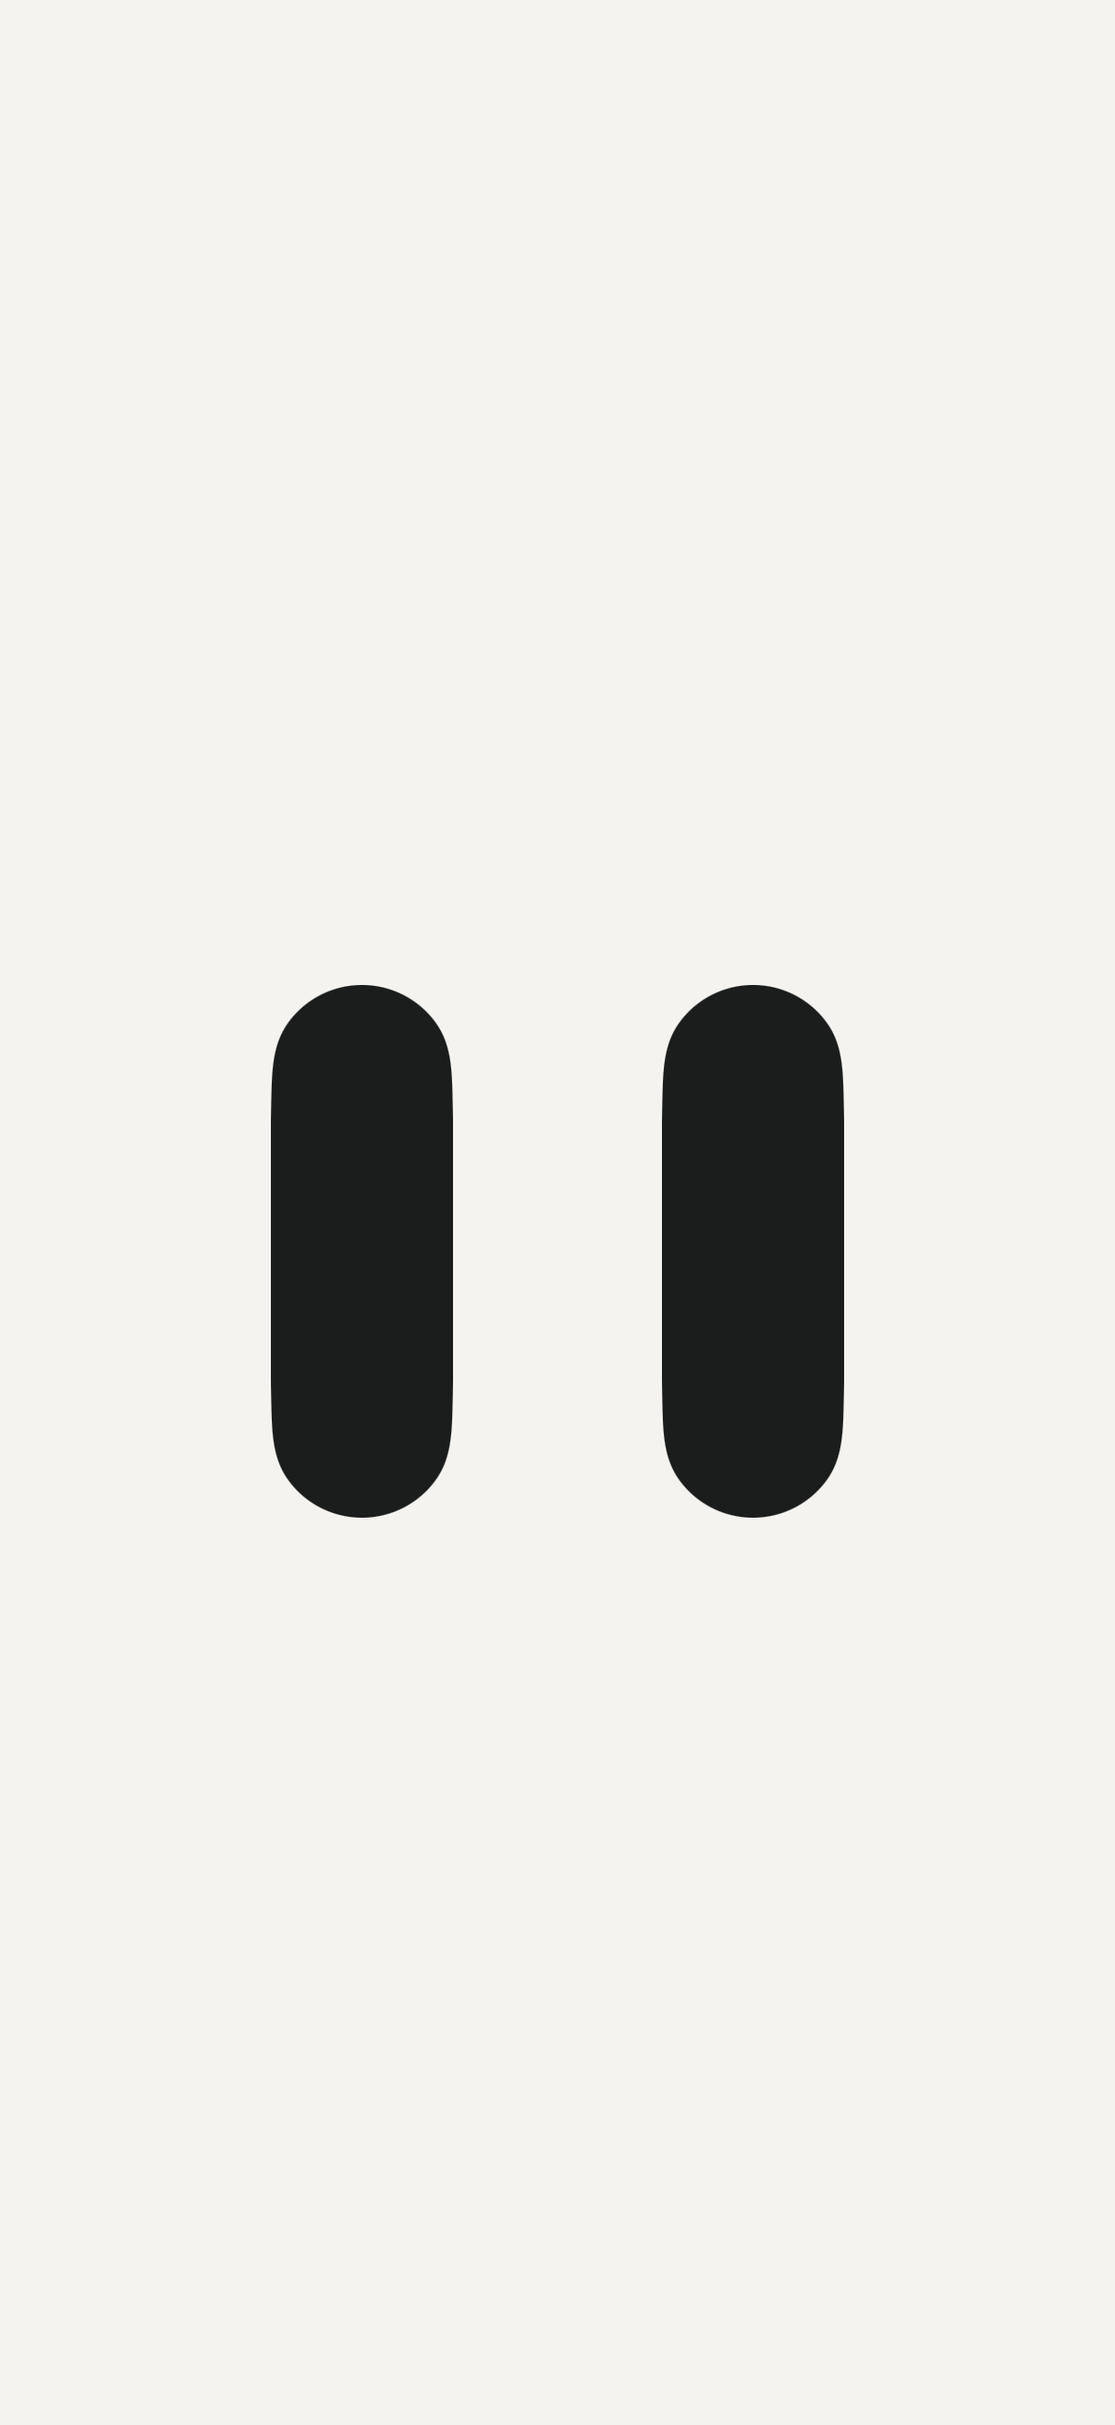
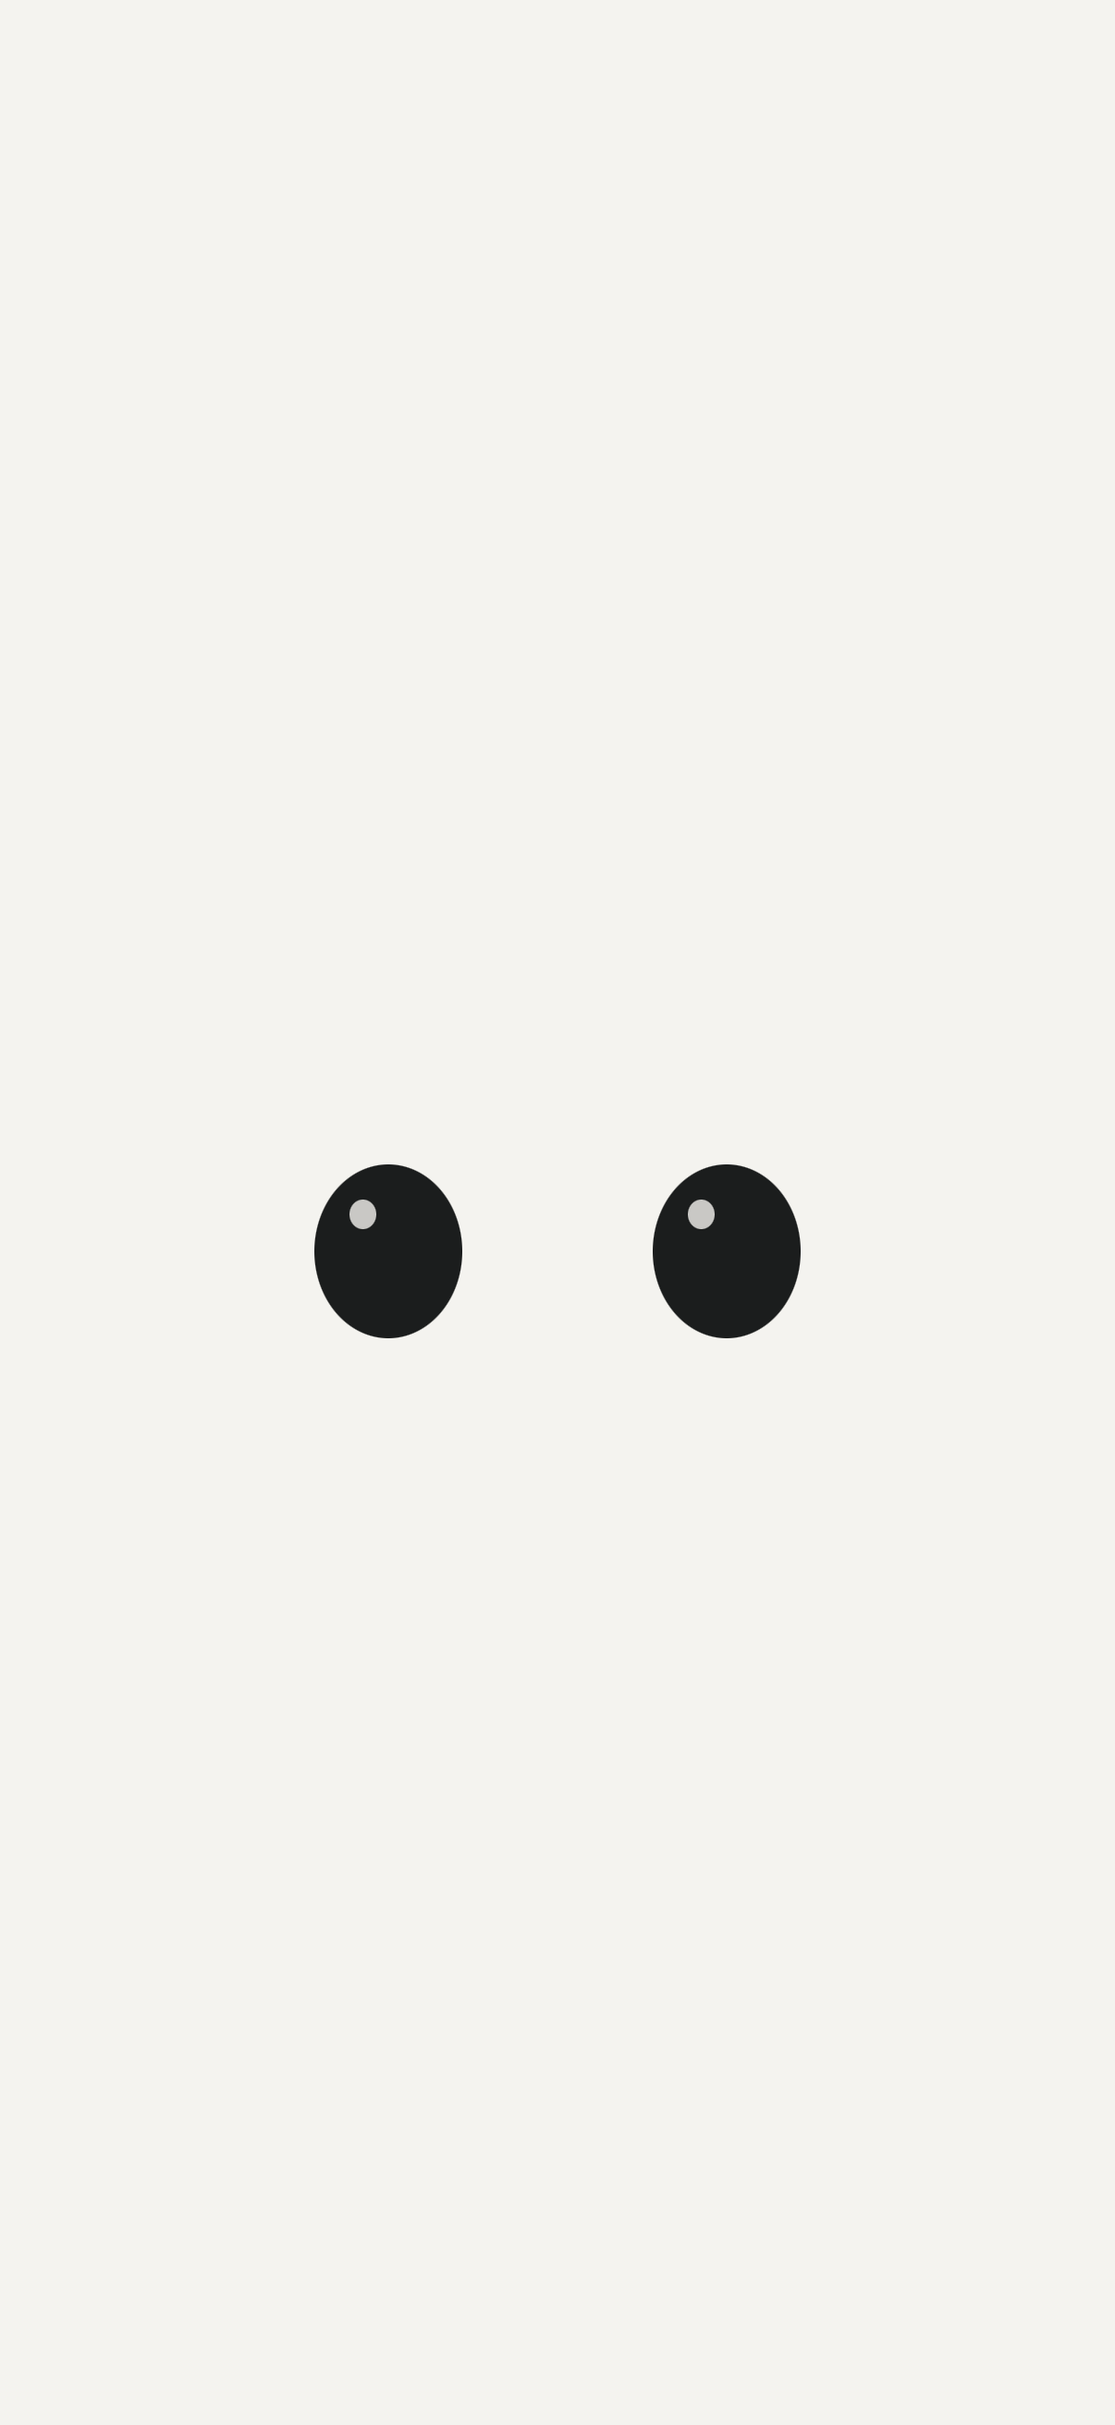
fix: soften Mate eyes and smooth face tracking motion

Changed region(s): [[0.5829, 0.4016, 0.767, 0.6487], [0.2454, 0.4016, 0.4295, 0.6487]]

diff --git a/Tests/MateCoreTests/CompanionGazeTests.swift b/Tests/MateCoreTests/CompanionGazeTests.swift
@@ -1,0 +1,86 @@
+import XCTest
+@testable import MateCore
+
+final class CompanionGazeTests: XCTestCase {
+    func testSmallDetectionJitterDoesNotKeepMovingSettledEyes() {
+        var gaze = CompanionGaze()
+        for frame in 0...120 {
+            gaze.update(x: 0.55, y: -0.25, now: Double(frame) / 12)
+        }
+        let settled = gaze.position
+        for frame in 121...168 {
+            let jitter = frame.isMultiple(of: 2) ? 0.008 : -0.008
+            let result = gaze.update(x: 0.55 + jitter, y: -0.25 - jitter, now: Double(frame) / 12)
+            XCTAssertEqual(result.x, settled.x, accuracy: 0.000_001)
+            XCTAssertEqual(result.y, settled.y, accuracy: 0.000_001)
+        }
+    }
+
+    func testLargeTargetChangeHasBoundedSpeedAndDoesNotOvershoot() {
+        var gaze = CompanionGaze()
+        gaze.update(x: 1, y: -1, now: 0)
+        var previous = gaze.position
+        for frame in 1...36 {
+            let result = gaze.update(x: 1, y: -1, now: Double(frame) / 12)
+            XCTAssertLessThanOrEqual(hypot(result.x - previous.x, result.y - previous.y), 1.5 / 12 + 0.000_001)
+            XCTAssertGreaterThanOrEqual(result.x, previous.x)
+            XCTAssertLessThanOrEqual(result.y, previous.y)
+            XCTAssertLessThanOrEqual(result.x, 1)
+            XCTAssertGreaterThanOrEqual(result.y, -1)
+            previous = result
+        }
+        XCTAssertGreaterThan(gaze.position.x, 0.99)
+        let afterStall = gaze.update(x: -1, y: 1, now: 30)
+        XCTAssertLessThanOrEqual(hypot(afterStall.x - previous.x, afterStall.y - previous.y), 0.15 + 0.000_001)
+    }
+
+    func testBriefFaceLossHoldsGazeThenReturnsSmoothlyToCenter() {
+        var gaze = CompanionGaze()
+        for frame in 0...24 {
+            gaze.update(x: 0.8, y: 0.4, now: Double(frame) / 12)
+        }
+        let held = gaze.position
+        XCTAssertEqual(gaze.update(x: nil, y: nil, now: 2.2), held)
+        XCTAssertEqual(gaze.update(x: nil, y: nil, now: 2.5), held)
+        let returning = gaze.update(x: nil, y: nil, now: 2.65)
+        XCTAssertGreaterThan(returning.x, 0)
+        XCTAssertLessThan(returning.x, held.x)
+        XCTAssertGreaterThan(returning.y, 0)
+        XCTAssertLessThan(returning.y, held.y)
+        XCTAssertLessThanOrEqual(hypot(returning.x - held.x, returning.y - held.y), 1.5 * 0.05 + 0.000_001)
+        for frame in 1...48 {
+            gaze.update(x: nil, y: nil, now: 2.65 + Double(frame) / 12)
+        }
+        XCTAssertEqual(gaze.position.x, 0, accuracy: 0.000_01)
+        XCTAssertEqual(gaze.position.y, 0, accuracy: 0.000_01)
+    }
+
+    func testInvalidCoordinatesAndTimestampsCannotPoisonGaze() {
+        var gaze = CompanionGaze()
+        gaze.update(x: 3, y: -4, now: 0)
+        let valid = gaze.update(x: 3, y: -4, now: 0.1)
+        XCTAssertEqual(gaze.update(x: -1, y: 1, now: .nan), valid)
+        XCTAssertEqual(gaze.update(x: -1, y: 1, now: .infinity), valid)
+        XCTAssertEqual(gaze.update(x: -1, y: 1, now: 0), valid)
+        XCTAssertEqual(gaze.update(x: .nan, y: .infinity, now: 0.2), valid)
+        let result = gaze.update(x: .nan, y: nil, now: 1)
+        XCTAssertTrue(result.x.isFinite && result.y.isFinite)
+        XCTAssertLessThan(result.x, valid.x)
+        XCTAssertGreaterThan(result.y, valid.y)
+    }
+
+    func testResetImmediatelyCentersAndDiscardsOldTarget() {
+        var gaze = CompanionGaze()
+        gaze.update(x: 1, y: -1, now: 0)
+        gaze.update(x: 1, y: -1, now: 0.1)
+        XCTAssertNotEqual(gaze.position.x, 0)
+        gaze.reset()
+        XCTAssertEqual(gaze.position.x, 0)
+        XCTAssertEqual(gaze.position.y, 0)
+        XCTAssertEqual(gaze.update(x: nil, y: nil, now: 10).x, 0)
+        XCTAssertEqual(gaze.update(x: nil, y: nil, now: 11).y, 0)
+        let reacquired = gaze.update(x: -1, y: 1, now: 11.1)
+        XCTAssertLessThan(reacquired.x, 0)
+        XCTAssertGreaterThan(reacquired.y, 0)
+    }
+}

diff --git a/apps/ios/ZeroKeyMate/MateView.swift b/apps/ios/ZeroKeyMate/MateView.swift
@@ -140,25 +140,45 @@ private struct MateEyes:View {
         let _ = locale.identifier
         TimelineView(.animation(minimumInterval:1.0/30,paused:reduceMotion || resting)){timeline in
             let time=timeline.date.timeIntervalSinceReferenceDate
-            let phase=time.truncatingRemainder(dividingBy:5.7)
-            let blink=reduceMotion ? 1.0:phase<0.16 ? max(0.08,abs(phase-0.08)/0.08):1.0
+            let phase=time.truncatingRemainder(dividingBy:11.3)
+            // Two unhurried blinks with unequal spacing, without an idle gaze wander.
+            let blinkDistance=min(abs(phase-2.7),abs(phase-8.9))
+            let blink=reduceMotion ? 1.0:blinkDistance<0.15 ?
+                0.08+0.92*(1-cos(.pi*blinkDistance/0.15))/2:1.0
             GeometryReader{g in
-                let width=g.size.width*0.21
-                let height=resting ? 5.0:g.size.height*(listening ? 0.73:0.65)
-                let offset=CGFloat(focus)*g.size.width*0.14
-                let vertical=CGFloat(verticalFocus)*g.size.height*0.14
-                HStack(spacing:g.size.width*0.24){
-                    ForEach(0..<2,id:\.self){index in
-                        RoundedRectangle(cornerRadius:width/2,style:.continuous)
-                            .fill(Finish.ink)
-                            .frame(width:width,height:max(5,height*blink*(thinking && index==1 ? 0.70:1)))
-                            .offset(x:offset,y:vertical+(thinking && index==1 ? -8:0))
-                            .animation(reduceMotion ? nil:.easeOut(duration:0.12),value:focus)
-                            .animation(reduceMotion ? nil:.easeOut(duration:0.12),value:verticalFocus)
+                let width=min(g.size.width*0.17,g.size.height*0.30)
+                let height=width*(listening ? 1.24:thinking ? 1.10:1.18)
+                let offset=CGFloat(focus)*g.size.width*0.085
+                let vertical=CGFloat(verticalFocus)*g.size.height*0.075
+                HStack(spacing:g.size.width*0.22){
+                    ForEach(0..<2,id:\.self){_ in
+                        ZStack {
+                            if resting {
+                                Path { path in
+                                    path.move(to:CGPoint(x:0,y:height*0.45))
+                                    path.addQuadCurve(to:CGPoint(x:width,y:height*0.45),
+                                                     control:CGPoint(x:width/2,y:height*0.78))
+                                }.stroke(Finish.ink,style:StrokeStyle(lineWidth:5,lineCap:.round))
+                            } else {
+                                Ellipse().fill(Finish.ink)
+                                    .overlay(alignment:.topLeading) {
+                                        Ellipse().fill(Finish.paper.opacity(0.8))
+                                            .frame(width:width*0.18,height:width*0.20)
+                                            .offset(x:width*0.24,y:height*0.20)
+                                    }
+                                    .scaleEffect(x:1,y:blink)
+                            }
+                        }
+                        .frame(width:width,height:height)
+                        .offset(x:resting ? 0:offset,y:resting ? 0:vertical)
+                        .animation(reduceMotion ? nil:.easeOut(duration:0.24),value:focus)
+                        .animation(reduceMotion ? nil:.easeOut(duration:0.24),value:verticalFocus)
                     }
                 }.frame(maxWidth:.infinity,maxHeight:.infinity)
             }
-        }.animation(reduceMotion ? nil:.easeInOut(duration:0.25),value:resting)
+        }.animation(reduceMotion ? nil:.easeInOut(duration:0.3),value:resting)
+            .animation(reduceMotion ? nil:.easeInOut(duration:0.3),value:listening)
+            .animation(reduceMotion ? nil:.easeInOut(duration:0.3),value:thinking)
     }
 }
 

diff --git a/Sources/MateCore/CompanionGaze.swift b/Sources/MateCore/CompanionGaze.swift
@@ -1,0 +1,72 @@
+import Foundation
+
+/// Calms normalized face positions without retaining camera frames or identity.
+/// Supply monotonic seconds, for example ProcessInfo.processInfo.systemUptime.
+public struct CompanionGaze: Sendable {
+    public struct Position: Equatable, Sendable {
+        public let x: Double
+        public let y: Double
+    }
+
+    public private(set) var position = Position(x: 0, y: 0)
+    private var target = Position(x: 0, y: 0)
+    private var updatedAt: TimeInterval?
+    private var lastFaceAt: TimeInterval?
+    private static let timeConstant = 0.28
+    private static let deadband = 0.02
+    private static let maximumSpeed = 1.5
+    private static let lossHold = 0.6
+    // A delayed callback must not turn into a single large jump.
+    private static let maximumStepTime = 0.1
+
+    public init() {}
+
+    @discardableResult
+    public mutating func update(x: Double?, y: Double?, now: TimeInterval) -> Position {
+        guard now.isFinite, updatedAt.map({ now > $0 }) ?? true else { return position }
+        let previousTime = updatedAt
+        updatedAt = now
+
+        let hasFace: Bool
+        if let x, let y, x.isFinite, y.isFinite {
+            let candidate = Position(x: max(-1, min(1, x)), y: max(-1, min(1, y)))
+            if lastFaceAt == nil || hypot(candidate.x - target.x, candidate.y - target.y) > Self.deadband {
+                target = candidate
+            }
+            lastFaceAt = now
+            hasFace = true
+        } else {
+            hasFace = false
+        }
+
+        guard let previousTime else { return position }
+        var elapsed = now - previousTime
+        let destination: Position
+        if hasFace {
+            destination = target
+        } else {
+            guard let lastFaceAt, now - lastFaceAt > Self.lossHold else { return position }
+            // Count only time after the hold expires, even when it falls between frames.
+            elapsed = now - max(previousTime, lastFaceAt + Self.lossHold)
+            destination = Position(x: 0, y: 0)
+        }
+
+        let dt = min(Self.maximumStepTime, max(0, elapsed))
+        let blend = 1 - exp(-dt / Self.timeConstant)
+        let dx = (destination.x - position.x) * blend
+        let dy = (destination.y - position.y) * blend
+        let distance = hypot(dx, dy)
+        let maximumDistance = Self.maximumSpeed * dt
+        let scale = distance > maximumDistance && distance > 0 ? maximumDistance / distance : 1
+        position = Position(x: position.x + dx * scale, y: position.y + dy * scale)
+        return position
+    }
+
+    /// Explicit stop clears both visible gaze and tracking history immediately.
+    public mutating func reset() {
+        position = Position(x: 0, y: 0)
+        target = Position(x: 0, y: 0)
+        updatedAt = nil
+        lastFaceAt = nil
+    }
+}

diff --git a/apps/ios/ZeroKeyMate/MateModel.swift b/apps/ios/ZeroKeyMate/MateModel.swift
@@ -23,6 +23,7 @@ final class MateModel:ObservableObject {
     var onDetach:(()->Void)?
     var onInterruption:(()->Void)?
     private var observation:FrameObservation?
+    private var gaze=CompanionGaze()
     private let camera=CameraService()
     private let dock=DockService()
     private var intent=CaptureIntent()
@@ -46,8 +47,10 @@ final class MateModel:ObservableObject {
                     guard let self,self.intent.shouldCapture,self.cameraRunning else{return}
                     self.observation=value
                     self.detectedFaces=value.faceCount
-                    self.horizontalFocus=max(-1,min(1,value.horizontalFocus ?? 0))
-                    self.verticalFocus=max(-1,min(1,value.verticalFocus ?? 0))
+                    let position=self.gaze.update(x:value.horizontalFocus,y:value.verticalFocus,
+                                                  now:ProcessInfo.processInfo.systemUptime)
+                    self.horizontalFocus=position.x
+                    self.verticalFocus=position.y
                     if self.lastTrackingRequest == nil,Date()>=self.trackingRetryAt {self.scheduleReconciliation()}
                 }
             }
@@ -84,7 +87,7 @@ final class MateModel:ObservableObject {
     func stopCapture(){intent.requestStop();scheduleReconciliation()}
     private func scheduleReconciliation() {
         revision &+= 1;captureRequested=intent.shouldCapture
-        if !intent.shouldCapture{observation=nil;horizontalFocus=0;verticalFocus=0;detectedFaces=0;dockTrackingSubjects=0}
+        if !intent.shouldCapture{observation=nil;gaze.reset();horizontalFocus=0;verticalFocus=0;detectedFaces=0;dockTrackingSubjects=0}
         guard reconciliationTask == nil else{return}
         reconciliationTask=Task{[weak self] in
             guard let self else{return}
@@ -115,7 +118,7 @@ final class MateModel:ObservableObject {
             if !intent.shouldCapture && cameraRunning {
                 cameraPhase = .stopping
                 await camera.stop();cameraRunning=false;cameraPhase = .off
-                observation=nil;horizontalFocus=0;verticalFocus=0;detectedFaces=0;dockTrackingSubjects=0
+                observation=nil;gaze.reset();horizontalFocus=0;verticalFocus=0;detectedFaces=0;dockTrackingSubjects=0
             }
             let wantsTracking=cameraRunning && intent.shouldCapture && dock.isConnected && dock.trackingButtonEnabled
             if lastTrackingRequest != wantsTracking, !wantsTracking || Date()>=trackingRetryAt {

diff --git a/docs/validation.md b/docs/validation.md
@@ -179,3 +179,9 @@ Physical-device `NativeProofTests` passed **2 tests, 0 failures, 0 skips** in `.
 The final home screen contains only the eyes. Visible headings, transcripts and persistent action buttons have moved to Controls, opened by tapping the face. Long-press rests the companion. VoiceOver retains the actual companion status and an explicit rest action. The missing asset catalog and AppIcon are now present, generated from Mate's existing paper/graphite eyes with a reproducible AppKit script. No sensor permission is implicitly granted by launching the icon.
 
 Final face-only validation: `make build-ios` passed outside the managed CoreSimulator restriction (`.build/validation/face-only-ios.log`). `make start-device` installed and normally launched the signed app with AppIcon on the paired iPhone (`face-only-device.log`). Simulator UI acceptance passed six tests, including no visible home text/toolbar, portrait accessibility, landscape bounds, language persistence and proof preflight. The native proof UI test initially timed out with the untouched form still visible; waiting for the transitioned action to become hittable fixed the test, and its focused rerun passed (1 test, 0 failures, 0 skips; `face-proof-retry.xcresult`). This verifies native generation, tamper rejection and preparation of the shareable file in Simulator. No claim of a single all-green seven-test run or physical gaze/stand acceptance is made. Current face screenshots and their provenance are in `docs/assets`.
+
+## Softer gaze — 2026-09-08
+
+Replaced tall black eyes with smaller rounded eyes and a small highlight, reduced travel, removed the asymmetric thinking stare, softened blinking and changed Rest to curved closed eyes. No visible home text or controls were added. A pure `CompanionGaze` filter suppresses small detection jitter, limits speed, holds position for 0.6 seconds through brief face loss and then returns smoothly to center. Explicit capture stop resets the filter. Reduce Motion still disables visual animation. The face selector continues to choose the largest detected face; this does not implement identity tracking or a persistent multi-person target.
+
+`make test SWIFT_TEST_FLAGS=--disable-sandbox` passed (27 Swift, 25 Node, 6 launcher tests), including five gaze jitter/loss/rate/reset cases. `make build-ios` and the signed generic-device build passed. The three selected face/portrait/landscape UI tests passed without failures or skips; screenshots were visually inspected. Logs and results are `.build/validation/gentle-gaze-*`. The first physical install attempt could not connect to the paired iPhone, so this revision has not yet replaced the app on that phone. Perceived comfort and physical tracking remain user acceptance, not assertions established by a screenshot or unit test.

diff --git a/docs/assets/README.md b/docs/assets/README.md
@@ -24,3 +24,7 @@ The images demonstrate presentation and the tested home-to-Rest UI transition. T
 `face-home.png` and `face-rest.png` are unmodified XCTest attachments from `.build/validation/face-ui.xcresult` on iPhone 17 / iOS Simulator 26.5. Attachment UUIDs: `A33FAD34-3375-4F17-B465-4423C1CAF6DF` (face-only home) and `CEF64E6D-1174-4275-8A43-58DB8AFE7573` (Rest). Both corresponding tests passed, including absence of visible home text and the controls accessibility audit. Six UI tests passed; the native proof UI test timed out in that first run. These images establish presentation, not physical gaze or DockKit motion.
 
 The timed-out native UI case subsequently passed in `face-proof-retry.xcresult` after adding an explicit wait for the presented action to become hittable. This was a focused one-test rerun.
+
+## Softer gaze — 2026-09-08
+
+The current `face-home.png` and `face-rest.png` replace the earlier captures above. They are unmodified attachments from `.build/validation/gentle-gaze-ui.xcresult`, iPhone 17 / iOS Simulator 26.5: `C37D5758-0011-4420-A2BD-44F0F198DE98` (home) and `AE50EAFA-0527-40D8-AC39-05AAEA5A82BB` (rest). All three selected UI tests passed, including the no-text home, portrait accessibility/Rest and landscape controls.
